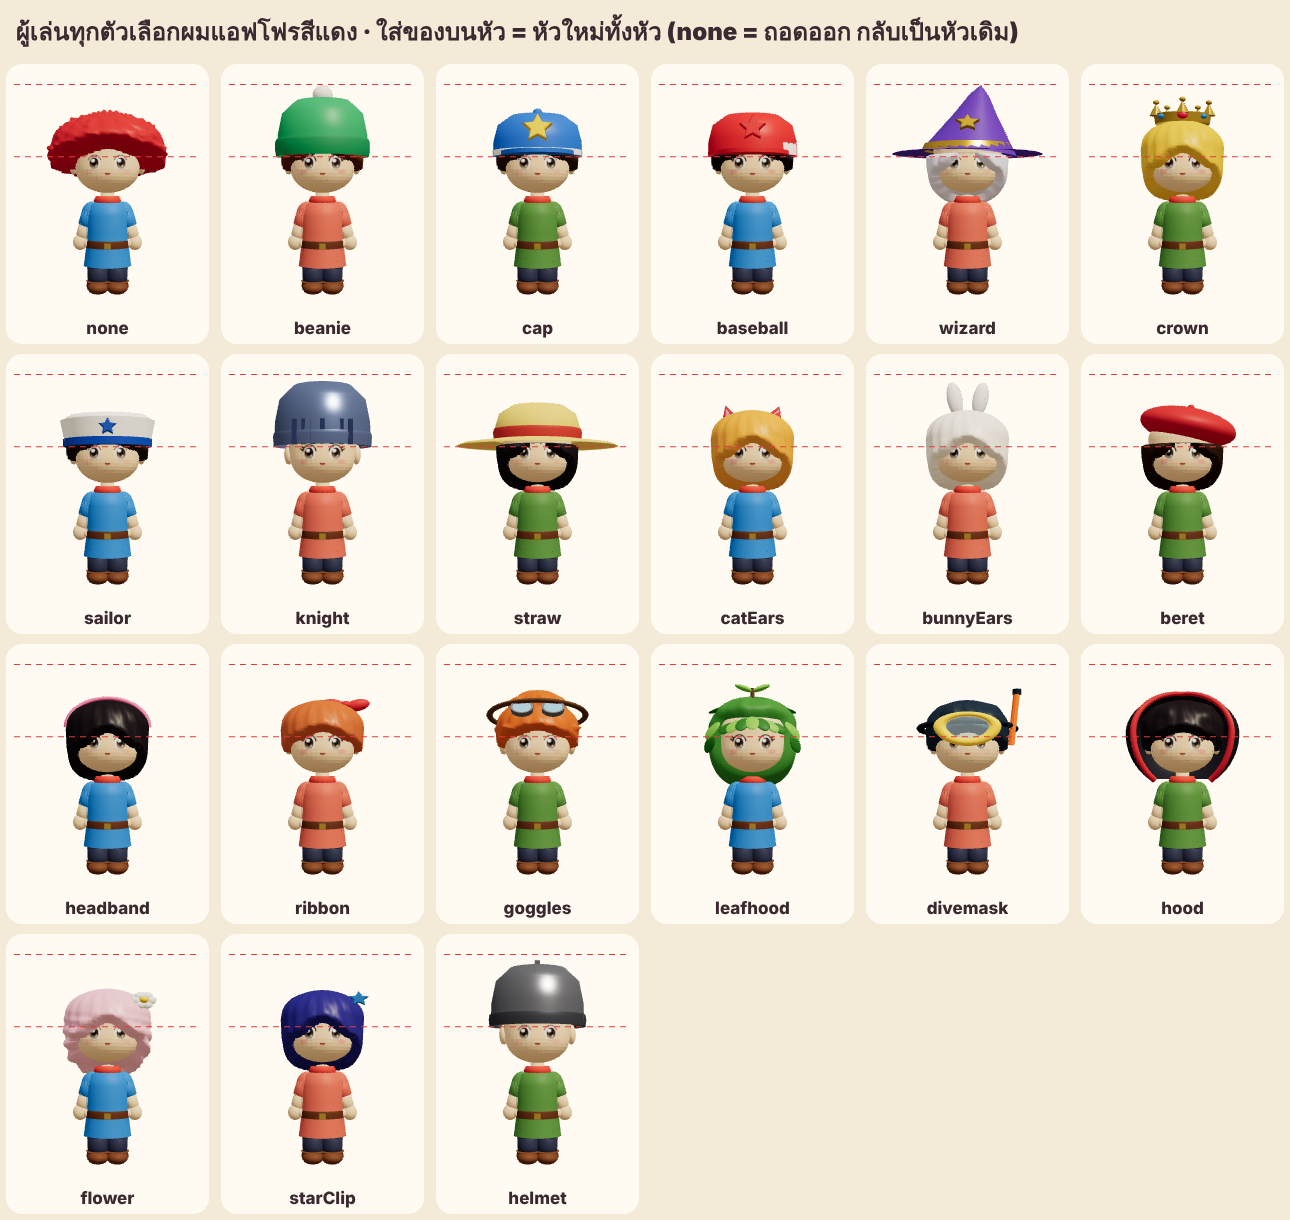
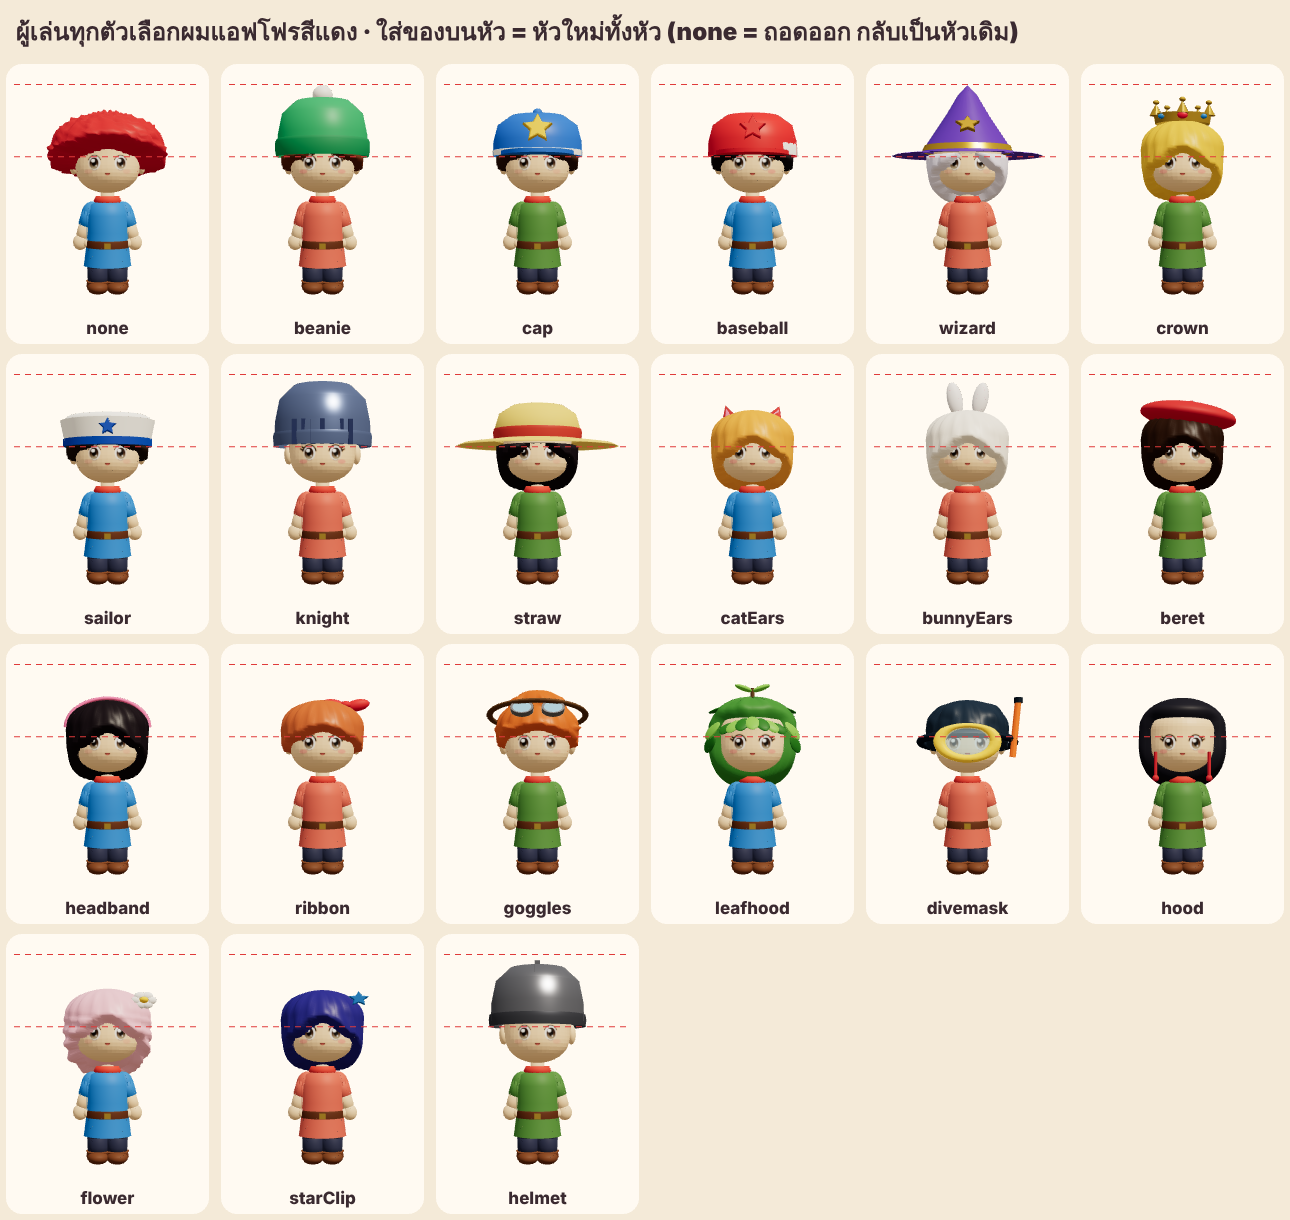
art(newgame): wizard hat straight, dive mask on the eyes, beret on the hair, snug hood (preview)
Claude-Session: https://claude.ai/code/session_01GPWeNez232vT9ersFNk7wt

diff --git a/newgame/src/vinyl.js b/newgame/src/vinyl.js
@@ -36,7 +36,7 @@ export function vinylProp(g, P) { if (!P) return; const F = { armL: P.arm, armR:
   if (J.head && P.headTop && P.headTop !== 1) headWarp(J.head, P.headYc ?? .02, P.headTop, P.hatKeep, g.userData.hatKind);
   g.userData.prop = P }
 /* v4.30 (preview) a lower crown: every mesh of the head (skull · hair · hat · glasses) squeezed above yc (head-local) by k · the face below stays as it is */
-const HAT_HUG = new Set(['crown', 'headband', 'ribbon', 'flower', 'starClip', 'catEars', 'bunnyEars', 'hood', 'leafhood', 'goggles', 'divemask']);   /* things that hug the head: they follow its new shape */
+const HAT_HUG = new Set(['beret', 'crown', 'headband', 'ribbon', 'flower', 'starClip', 'catEars', 'bunnyEars', 'hood', 'leafhood', 'goggles', 'divemask']);   /* things that hug the head: they follow its new shape */
 export const HEAD_TOP = .494, HEAD_BROW = -.006;   /* v4.30 the designer's frame: nothing on the head goes higher than the beanie (pompom included) on the lower head */
 export function headWarp(head, yc, k, keepHat, kind) { head.updateMatrixWorld(true); const HI = head.matrixWorld.clone().invert(), v = new THREE.Vector3(), hat = head.getObjectByName('hat'), keep = keepHat && hat && !HAT_HUG.has(kind), inHat = o => { for (let p = o; p; p = p.parent) if (p === hat) return true; return false };
   head.traverse(o => { if (!o.isMesh || (keep && inHat(o))) return; const M = HI.clone().multiply(o.matrixWorld), MI = M.clone().invert(), g = o.geometry.clone(), p = g.attributes.position;
@@ -57,6 +57,13 @@ export function vinylLayers(root, show) { root.traverse(o => { if (o.isMesh && o
 const STARG = (() => { const sh = new THREE.Shape(); for (let i = 0; i < 10; i++) { const a = i / 10 * Math.PI * 2 + Math.PI / 2, r = i % 2 ? .45 : 1; i ? sh.lineTo(Math.cos(a) * r, Math.sin(a) * r) : sh.moveTo(Math.cos(a) * r, Math.sin(a) * r) } const g = new THREE.ExtrudeGeometry(sh, { depth: .35, bevelEnabled: true, bevelThickness: .15, bevelSize: .12, bevelSegments: 2 }); g.center(); return g })();
 /* v3.9 head gear (layer 2) after the reference sheet: hats sit over the hair (the fringe and the sides still show) · bands and ears ride on top · clips on the side
    head-local: the skull top ≈ y .28, the hair top ≈ y .32, the brim line ≈ y .12–.16 */
+/* v4.30 a hood shaped on the head (it replaces the hair): open at the face below the brow · falls to the neck at the back · ripple = leafy bumps */
+function snugHood(H, C, ripple = 0) { const g2 = new THREE.SphereGeometry(1, 56, 40), p = g2.attributes.position, dv = V(0, 0, 0);
+  for (let i = 0; i < p.count; i++) { dv.set(p.getX(i), p.getY(i), p.getZ(i)).normalize(); const az = Math.atan2(dv.x, dv.z), base = surf(dv, 0), y = base.y, face = sst(.2, .5, dv.z) * sst(.2, .1, y), back = sst(.35, -.55, dv.z);
+    let o = .05 + ripple * Math.max(0, Math.sin(az * 7 + dv.y * 5)) * sst(-.2, .6, dv.y); o = -.03 + (o + .03) * (1 - face); const q = surf(dv, o);
+    if (back > 0) { const k = back * sst(.15, -.75, dv.y); q.y -= .12 * k; q.z -= .05 * k; q.x *= 1 + .1 * k }   /* it falls to the neck at the back */
+    p.setXYZ(i, q.x * .96, q.y * .96, q.z * .96) }
+  g2.computeVertexNormals(); return add(H, g2, C) }
 function hatPiece(h, kind, col, hairC) { if (!kind || kind === 'none') return; const H = new THREE.Group(); H.name = 'hat'; h.add(H);
   const M = (c, o = {}) => mat(c, { r: .45, ds: 1, ...o }), GOLD = M('#f0c040', { m: .6, r: .3 });
   const dome = (r, y0, y1, m, s = 28) => add(H, lathe([[r, y0], [r * .99, y0 + (y1 - y0) * .35], [r * .9, y0 + (y1 - y0) * .7], [r * .6, y0 + (y1 - y0) * .93], [.001, y1]], s), m);
@@ -66,7 +73,7 @@ function hatPiece(h, kind, col, hairC) { if (!kind || kind === 'none') return; c
     if (inner) { const i2 = pointy ? add(H, new THREE.ConeGeometry(1, 1, 4), inner, [x, y - sy * .08, z + sz * .35], [sx * .6, sy * .7, sz * .4]) : ball(H, 1, inner, [x, y, z + sz * .45], [sx * .6, sy * .72, sz * .4], 14); i2.rotation.z = rz; if (pointy) i2.rotation.y = Math.PI / 4 } };
   if (kind === 'cap') { const C = M(col || '#3a7ad8'), W2 = M('#f4f0e8'); dome(.31, .1, .4, C); const b = add(H, new THREE.CylinderGeometry(.24, .24, .025, 28, 1, false, -Math.PI / 2, Math.PI), C, [0, .11, .17]); b.scale.z = 1.3; ball(H, .035, C, [0, .4, 0]); star(M('#ffd23f', { m: .3 }), [0, .27, .29], .085, -.25); add(H, lathe([[.312, .1], [.315, .135], [.31, .14]], 28), W2) }
   else if (kind === 'baseball') { const C = M(col || '#d83a3a'), W2 = M('#f8f4ec'); dome(.31, .1, .4, C); const fr = add(H, new THREE.SphereGeometry(.317, 24, 14, Math.PI * .72, Math.PI * .56, Math.PI * .12, Math.PI * .38), W2, [0, .1, 0]); fr.scale.y = .97; const b = add(H, new THREE.CylinderGeometry(.24, .24, .025, 28, 1, false, -Math.PI / 2, Math.PI), C, [0, .11, .17]); b.scale.z = 1.3; star(C, [0, .27, .29], .075, -.25) }
-  else if (kind === 'wizard') { const C = M(col || '#6a4ab8'); const cone = add(H, lathe([[.33, .14], [.25, .3], [.15, .5], [.07, .68], [.001, .78]], 28), C); cone.rotation.z = -.12; add(H, lathe([[.3, .15], [.5, .13], [.52, .12], [.48, .125]], 32), C); add(H, lathe([[.322, .15], [.3, .22]], 28), GOLD); star(GOLD, [0, .38, .27], .07, -.4) }
+  else if (kind === 'wizard') { const C = M(col || '#6a4ab8'); const cone = add(H, lathe([[.33, .14], [.25, .3], [.15, .5], [.07, .68], [.001, .78]], 28), C); cone.rotation.z = 0;   /* v4.30 straight (designer: it looked lopsided) */ add(H, lathe([[.3, .15], [.5, .13], [.52, .12], [.48, .125]], 32), C); add(H, lathe([[.322, .15], [.3, .22]], 28), GOLD); star(GOLD, [0, .38, .27], .07, -.4) }
   else if (kind === 'crown') { add(H, new THREE.CylinderGeometry(.2, .19, .09, 24, 1, true), GOLD, [0, .33, 0]); for (let i = 0; i < 5; i++) { const a = i / 5 * Math.PI * 2; const c = add(H, new THREE.ConeGeometry(.045, .12, 10), GOLD, [Math.sin(a) * .19, .42, Math.cos(a) * .19]); ball(H, .022, GOLD, [Math.sin(a) * .19, .49, Math.cos(a) * .19]) } ball(H, .035, M('#e83a4a', { m: .2, r: .2 }), [0, .34, .2], [1, 1, .5]); for (const s2 of [-1, 1]) ball(H, .025, M('#3a8ad8', { m: .2, r: .2 }), [s2 * .14, .34, .14], [1, 1, .5]) }
   else if (kind === 'sailor') { const W2 = M('#f8f6f0'), B = M(col || '#2a5ab8'); add(H, new THREE.CylinderGeometry(.33, .3, .14, 28), W2, [0, .24, 0]); add(H, new THREE.CylinderGeometry(.31, .31, .05, 28), B, [0, .16, 0]); dome(.3, .31, .36, W2); const a2 = star(B, [0, .25, .32], .05, -.1) }
   else if (kind === 'knight') { const S2 = M(col || '#8aa0d0', { m: .6, r: .3 }); dome(.335, .0, .43, S2); add(H, lathe([[.34, -.02], [.345, .05], [.34, .07]], 28), S2); for (let i = -3; i <= 3; i++) add(H, new THREE.BoxGeometry(.03, .16, .03), M('#4a5a8a', { m: .5 }), [i * .06, .06, .32 - Math.abs(i) * .012]) }
@@ -77,23 +84,18 @@ function hatPiece(h, kind, col, hairC) { if (!kind || kind === 'none') return; c
   else if (kind === 'headband') band(.285, .02, M(col || '#f07aa8'), .06, Math.PI * 1.0);   /* v3.87 sits on the hair */
   else if (kind === 'ribbon') { const C = M(col || '#d83a3a'); for (const s2 of [-1, 1]) { const w = ball(H, .08, C, [.16 + s2 * .08, .27, .04], [1.1, .7, .45], 16); w.rotation.z = s2 * .4 } ball(H, .04, C, [.16, .27, .05]) }   /* v3.87 pinned on the hair */
   else if (kind === 'leafhood') { const C = M(col || '#4a8a3a'), L1 = M('#7ac04a'), L2 = M('#3a7a2a'), St = M('#6a4a2a');   /* v4.30 🌿 sylvaren: a snug leaf hood · it replaces the hair (a kingdom costume: no floating head) */
-    const g2 = new THREE.SphereGeometry(1, 56, 40), p = g2.attributes.position, dv = V(0, 0, 0);
-    for (let i = 0; i < p.count; i++) { dv.set(p.getX(i), p.getY(i), p.getZ(i)).normalize(); const az = Math.atan2(dv.x, dv.z), base = surf(dv, 0), y = base.y, face = sst(.2, .5, dv.z) * sst(.2, .1, y), back = sst(.35, -.55, dv.z);
-      let o = .05 + .014 * Math.max(0, Math.sin(az * 7 + dv.y * 5)) * sst(-.2, .6, dv.y); o = -.03 + (o + .03) * (1 - face); const q = surf(dv, o);
-      if (back > 0) { const k = back * sst(.15, -.75, dv.y); q.y -= .12 * k; q.z -= .05 * k; q.x *= 1 + .1 * k }   /* it falls to the neck at the back */
-      p.setXYZ(i, q.x * .96, q.y * .96, q.z * .96) }
-    g2.computeVertexNormals(); add(H, g2, C);
+    snugHood(H, C, .014);
     const leaf = (d, off, k, m, tilt) => { const q = surf(d.clone().normalize(), off).multiplyScalar(.96), l = ball(H, .085 * k, m, q.toArray(), [.6, 1, .18], 12); l.quaternion.setFromUnitVectors(V(0, 0, 1), q.clone().normalize()); l.rotateZ(tilt); l.rotateX(-.35); return l };   /* lies on the hood, its tip lifted a little */
     for (let i = -3; i <= 3; i++) leaf(V(i * .21, .3 - Math.abs(i) * .035, .9), .06, .9 - Math.abs(i) * .05, i % 2 ? L2 : L1, i * .25);   /* a fringe of leaves over the brow */
     for (const s2 of [-1, 1]) { leaf(V(s2 * .85, .15, .45), .06, 1, L1, s2 * .5); leaf(V(s2 * .8, -.15, .3), .055, .9, L2, s2 * .8); leaf(V(s2 * .6, .7, -.2), .06, 1, L2, s2 * 1) }
     for (const [x, z, m] of [[0, -.5, L1], [.3, -.8, L2], [-.3, -.8, L1]]) leaf(V(x, .55, z), .06, 1.1, m, x * 2);
     const top = surf(V(0, 1, -.05), .06).multiplyScalar(.96); add(H, new THREE.CylinderGeometry(.012, .018, .1, 6), St, [top.x, top.y + .04, top.z]); for (const s2 of [-1, 1]) { const l = ball(H, .07, L1, [top.x + s2 * .06, top.y + .09, top.z], [1, .35, .55], 12); l.rotation.z = s2 * .5 } }
-  else if (kind === 'divemask') { const St = M('#1a2a3a'), Fr = M('#ffd040', { r: .4 }), G = M('#bfefff', { m: .1, r: .05 }), T = M('#ff7a2a', { r: .4 }); { const st = add(H, new THREE.TorusGeometry(.33, .026, 8, 40), St, [0, .04, -.02]); st.rotation.x = Math.PI / 2 - .12 }   /* v4.17 🤿 a dive mask (one wide glass) + a snorkel */
-    const fr = add(H, new THREE.TorusGeometry(.13, .03, 10, 30), Fr, [0, .03, .33]); fr.scale.set(1.35, .85, 1); fr.rotation.x = -.1; const gl = add(H, new THREE.CircleGeometry(.13, 24), G, [0, .03, .345]); gl.scale.set(1.35, .85, 1); gl.rotation.x = -.1; gl.material.transparent = true; gl.material.opacity = .55;
-    const sn = add(H, new THREE.CylinderGeometry(.022, .022, .46, 10), T, [.31, .14, .14]); sn.rotation.z = -.08; const tp = add(H, new THREE.CylinderGeometry(.03, .03, .05, 10), M('#1a2a3a'), [.33, .38, .14]) }
+  else if (kind === 'divemask') { const St = M('#1a2a3a'), Fr = M('#ffd040', { r: .4 }), G = M('#bfefff', { m: .1, r: .05 }), T = M('#ff7a2a', { r: .4 }); const EY = -.075; { const st = add(H, new THREE.TorusGeometry(.33, .026, 8, 40), St, [0, EY + .01, -.02]); st.rotation.x = Math.PI / 2 - .12 }   /* v4.17 🤿 a dive mask (one wide glass) + a snorkel · v4.30 over the eyes (designer) */
+    const fr = add(H, new THREE.TorusGeometry(.13, .03, 10, 30), Fr, [0, EY, .335]); fr.scale.set(1.35, .85, 1); fr.rotation.x = -.1; const gl = add(H, new THREE.CircleGeometry(.13, 24), G, [0, EY, .35]); gl.scale.set(1.35, .85, 1); gl.rotation.x = -.1; gl.material.transparent = true; gl.material.opacity = .55;
+    const sn = add(H, new THREE.CylinderGeometry(.022, .022, .46, 10), T, [.32, .06, .14]); sn.rotation.z = -.08; const tp = add(H, new THREE.CylinderGeometry(.03, .03, .05, 10), M('#1a2a3a'), [.34, .3, .14]) }
   else if (kind === 'goggles') { const L2 = M('#6a4a2a'), G = M('#9ad0f0', { m: .1, r: .1 }), R2 = M('#c8c8d0', { m: .7, r: .3 }); { const st = add(H, new THREE.TorusGeometry(.335, .022, 8, 40), L2, [0, .17, -.02]); st.rotation.x = Math.PI / 2 - .3 } for (const s2 of [-1, 1]) { const r = add(H, new THREE.CylinderGeometry(.075, .075, .06, 20), R2, [s2 * .1, .2, .27]); r.rotation.x = Math.PI / 2 - .5; const g = add(H, new THREE.CircleGeometry(.06, 20), G, [s2 * .1, .21, .3]); g.rotation.x = -.5 } }
-  else if (kind === 'hood') { const C = M(col || '#2a2a34'), Rd = M('#c83a3a'); add(H, new THREE.SphereGeometry(.4, 32, 20, Math.PI / 2 + .95, Math.PI * 2 - 1.9, 0, Math.PI * .8), C, [0, .0, -.05]);   /* open at the face */
-    for (const s2 of [-1, 1]) { const e = add(H, new THREE.TorusGeometry(.4, .022, 8, 24, Math.PI * .8), Rd, [0, .0, -.05]); e.rotation.set(0, Math.PI / 2 - s2 * .95, Math.PI / 2) } }
+  else if (kind === 'hood') { const C = M(col || '#2a2a34'), Rd = M('#c83a3a');   /* v4.30 a snug hood that is the hair (designer: redrawn to fit) · red drawstrings */
+    snugHood(H, C); for (const s2 of [-1, 1]) { const q = surf(V(s2 * .55, -.35, .75).normalize(), .05).multiplyScalar(.96); add(H, new THREE.CylinderGeometry(.012, .012, .16, 6), Rd, [q.x, q.y - .08, q.z + .01]); ball(H, .022, Rd, [q.x, q.y - .17, q.z + .01]) } }
   else if (kind === 'flower') { const P = M('#f8f4f0'), Y = M('#f8c838'); for (let i = 0; i < 6; i++) { const a = i / 6 * Math.PI * 2; ball(H, .04, P, [.24 + Math.cos(a) * .045, .2 + Math.sin(a) * .045, .17], [1, 1, .5]) } ball(H, .03, Y, [.24, .2, .19]) }
   else if (kind === 'starClip') star(M(col || '#3a8ad8', { m: .2 }), [.24, .22, .17], .06, 0);
   else if (kind === 'beanie') { const C = M(col || '#3aa86a'); dome(.315, .05, .44, C); add(H, lathe([[.322, .03], [.33, .07], [.33, .13], [.318, .15]], 28), mat(shade(col || '#3aa86a', .7), { ds: 1 })); ball(H, .07, M('#f4f0e8'), [0, .46, 0]) }
@@ -101,7 +103,7 @@ function hatPiece(h, kind, col, hairC) { if (!kind || kind === 'none') return; c
   H.position.set(0, .02, -.02); LY(H, 2) }
 /* v3.87 the hair style under each head item (the player's own style comes back when it is taken off) */
 /* v4.30 (designer) a head item is a whole new head: its own hair style + colour, made with the hat (the player's own hair comes back when it comes off) · 'none' = the item is the hair */
-export const HAT_LOOK = { beanie: ['messy', '#6a3a20'], cap: ['messy', '#4a3020'], baseball: ['messy', '#2a2228'], wizard: ['long', '#e0dcea'], crown: ['bob', '#e8b838'], sailor: ['messy', '#3a2a20'], knight: ['none'], straw: ['bob', '#2a2228'], catEars: ['bob', '#e8a040'], bunnyEars: ['bob', '#f4ece0'], beret: ['bob', '#3a2418'], headband: ['bob', '#2a2228'], ribbon: ['pony', '#c86a3a'], goggles: ['spiky', '#d06a2a'], leafhood: ['none'], divemask: ['messy', '#2a3a4a'], hood: ['messy', '#2a2228'], flower: ['wavy', '#f0b8c8'], starClip: ['bob', '#3a3a8a'], helmet: ['none'] };
+export const HAT_LOOK = { beanie: ['messy', '#6a3a20'], cap: ['messy', '#4a3020'], baseball: ['messy', '#2a2228'], wizard: ['long', '#e0dcea'], crown: ['bob', '#e8b838'], sailor: ['messy', '#3a2a20'], knight: ['none'], straw: ['bob', '#2a2228'], catEars: ['bob', '#e8a040'], bunnyEars: ['bob', '#f4ece0'], beret: ['bob', '#3a2418'], headband: ['bob', '#2a2228'], ribbon: ['pony', '#c86a3a'], goggles: ['spiky', '#d06a2a'], leafhood: ['none'], divemask: ['messy', '#2a3a4a'], hood: ['none'], flower: ['wavy', '#f0b8c8'], starClip: ['bob', '#3a3a8a'], helmet: ['none'] };
 export const HAT_HAIR = { cap: 'messy', baseball: 'messy', wizard: 'messy', crown: 'bob', sailor: 'messy', knight: 'messy', straw: 'bob', catEars: 'bob', bunnyEars: 'bob', beret: 'bob', headband: 'bob', ribbon: 'bob', goggles: 'messy', hood: 'messy', flower: 'bob', starClip: 'bob', beanie: 'messy', helmet: 'messy', leafhood: 'none' };   // 'none' = the head item is the hair (a kingdom costume)
 export function vinylHat(root, kind, col) { const h = root.getObjectByName('head'); if (!h) return; const o = h.getObjectByName('hat'); if (o) h.remove(o); hatPiece(h, kind, col) }                     // base units → the body group (≈ 1.5 tall before the actor scale)
 /* old avatars (v1) → the new options */
